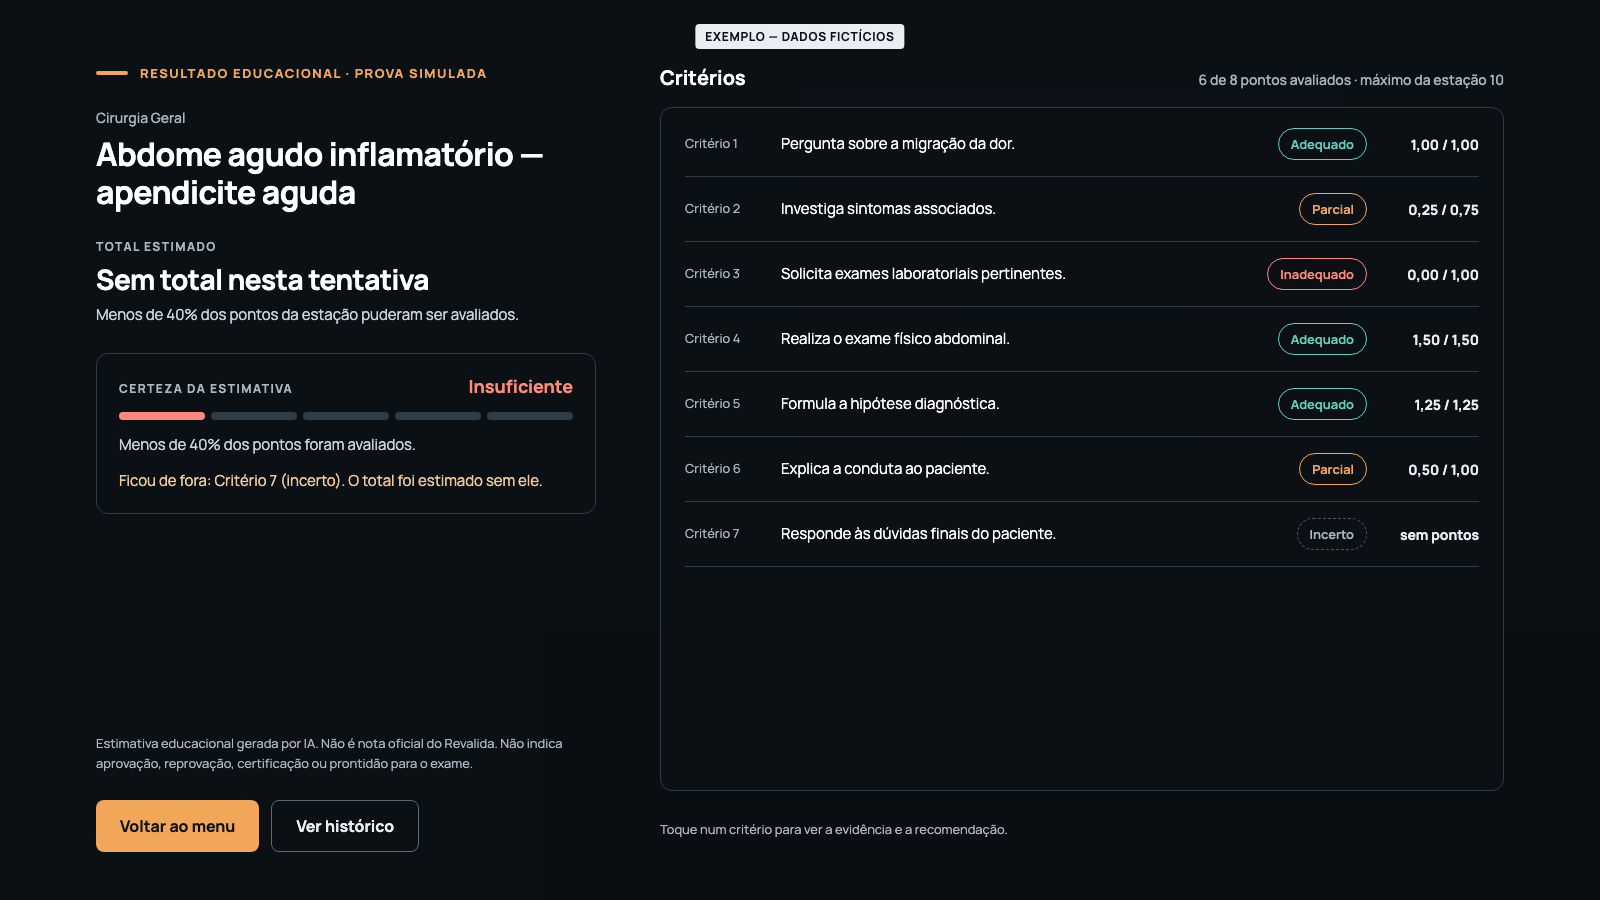
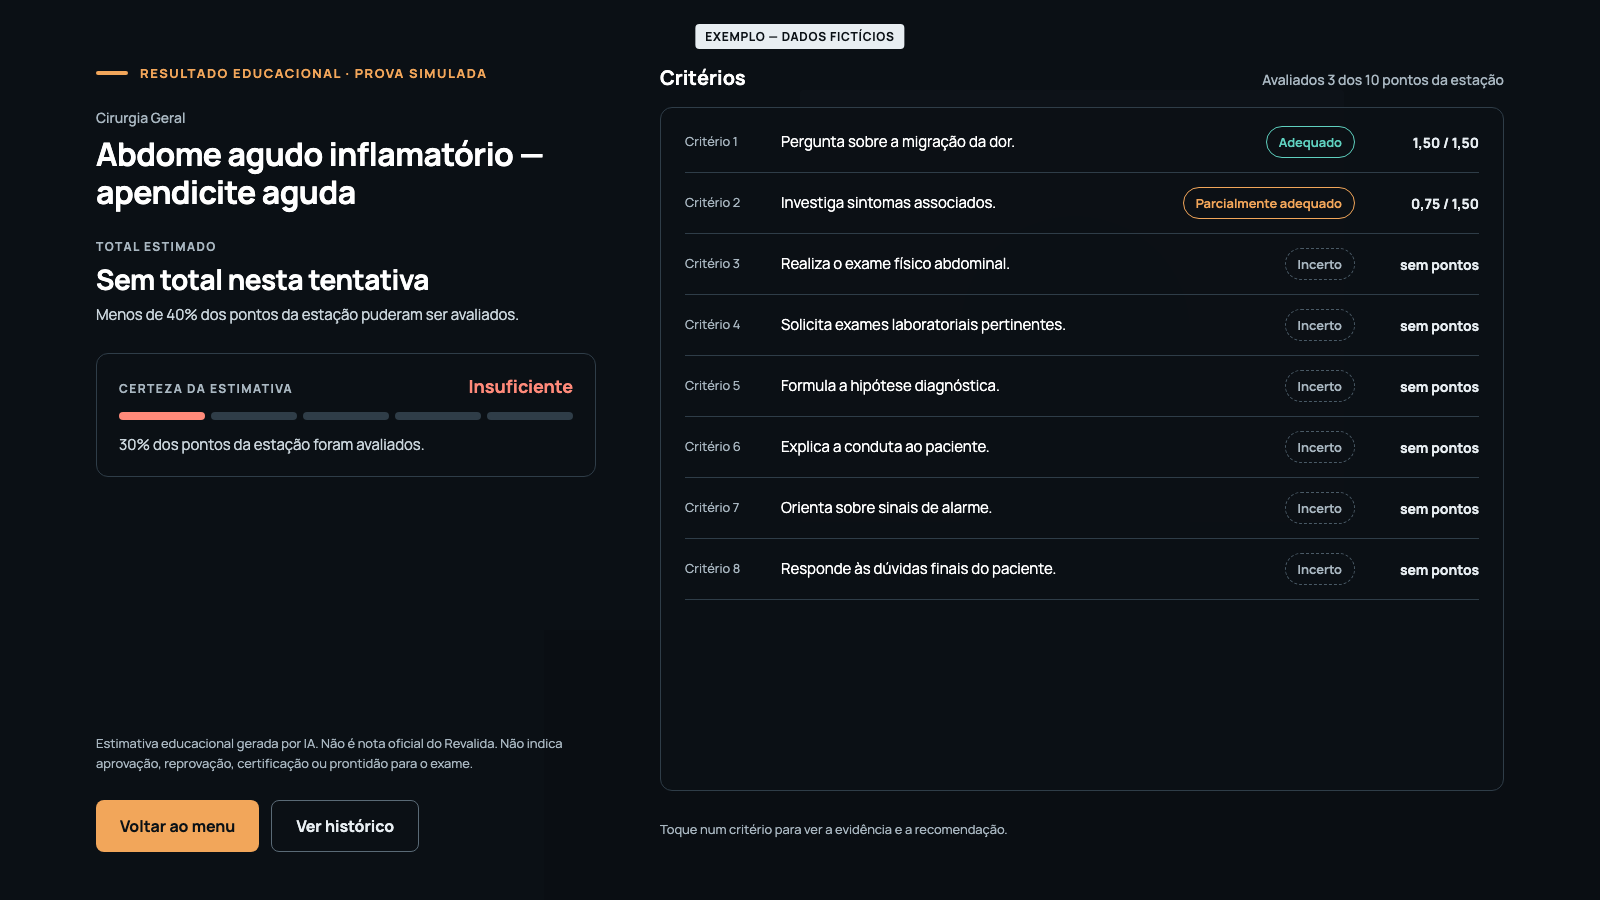
docs(design): fix Cine mockup review findings
- ResultExam derives total, coverage, header and left-out criteria from one model per certainty level; level 1 no longer claims an estimated total
- Main and Catalog walk the Prova simulada flow through to BriefExam
- README dates the history retention decision 2026-10-29

diff --git a/docs/design/screens/html/ResultExam.dc.html b/docs/design/screens/html/ResultExam.dc.html
@@ -28,7 +28,7 @@
 <sc-if value="{{ showTotal }}" hint-placeholder-val="{{ true }}">
 <div style="display: flex; flex-direction: column; gap: 4px">
 <span class="eyebrow" style="font-size: 12px">Total estimado</span>
-<span style="font-size: 88px; font-weight: 800; letter-spacing: -0.04em; line-height: 1; color: #ffffff">7,5<span style="font-size: 28px; font-weight: 600; color: #a9b7c1; letter-spacing: 0"> de 10</span></span>
+<span style="font-size: 88px; font-weight: 800; letter-spacing: -0.04em; line-height: 1; color: #ffffff">{{ total }}<span style="font-size: 28px; font-weight: 600; color: #a9b7c1; letter-spacing: 0"> de 10</span></span>
 </div>
 </sc-if>
 <sc-if value="{{ noTotal }}" hint-placeholder-val="{{ false }}">
@@ -46,7 +46,7 @@
 </div>
 <p class="small">{{ coverageText }}</p>
 <sc-if value="{{ hasWarning }}" hint-placeholder-val="{{ true }}">
-<p class="small" style="color: #f2c89a">Ficou de fora: Critério 7 (incerto). O total foi estimado sem ele.</p>
+<p class="small" style="color: #f2c89a">{{ warning }}</p>
 </sc-if>
 </div>
 
@@ -60,14 +60,14 @@
 </div>
 
 <div style="flex: 1; min-width: 0; display: flex; flex-direction: column; gap: 16px">
-<div style="display: flex; justify-content: space-between; align-items: baseline"><h2 class="h3" style="font-size: 20px">Critérios</h2><span class="muted">6 de 8 pontos avaliados · máximo da estação 10</span></div>
+<div style="display: flex; justify-content: space-between; align-items: baseline"><h2 class="h3" style="font-size: 20px">Critérios</h2><span class="muted">{{ header }}</span></div>
 <div class="panel" style="flex: 1; min-height: 0; overflow-y: auto; padding: 4px 24px">
 <sc-for list="{{ rows }}" as="r" hint-placeholder-count="8">
-<div style="display: flex; align-items: center; gap: 20px; padding: 16px 0; border-bottom: 1px solid #2f3d48">
+<div style="display: flex; align-items: center; gap: 20px; padding: 14px 0; border-bottom: 1px solid #2f3d48">
 <span class="fine" style="width: 76px; flex: none">Critério {{ r.n }}</span>
 <span class="small" style="flex: 1; color: #ffffff">{{ r.d }}</span>
 <span class="chip" style="{{ r.style }}">{{ r.status }}</span>
-<span style="width: 92px; text-align: right; font-size: 14px; font-weight: 700">{{ r.p }}</span>
+<span style="width: 104px; text-align: right; font-size: 14px; font-weight: 700">{{ r.p }}</span>
 </div>
 </sc-for>
 </div>
@@ -82,33 +82,57 @@ class Component extends DCLogic {
     const level = parseInt(this.props.level ?? '4', 10);
     const labels = { 5: 'Certeira', 4: 'Quase certeira', 3: 'Parcialmente certeira', 2: 'Pouco certeira', 1: 'Insuficiente' };
     const colors = { 5: '#5fd0bf', 4: '#5fd0bf', 3: '#f2a65a', 2: '#f2a65a', 1: '#ff8a7a' };
-    const coverage = { 5: 'Todos os critérios da estação foram avaliados.', 4: '80% dos pontos da estação foram avaliados.', 3: 'Entre 60% e 80% dos pontos foram avaliados.', 2: 'Entre 40% e 60% dos pontos foram avaliados.', 1: 'Menos de 40% dos pontos foram avaliados.' };
-    const segs = [1, 2, 3, 4, 5].map((i) => 'display:block; height:8px; border-radius:4px; background:' + (i <= level ? colors[level] : '#2f3d48'));
+    // How many criteria, counted from the end, could not be assessed at each level.
+    const uncertainCount = { 5: 0, 4: 1, 3: 2, 2: 4, 1: 6 };
+    const fmt = (x) => (Math.round(x * 100) / 100).toFixed(2).replace(/0$/, '').replace(/\.0?$/, '').replace('.', ',');
+    const pts = (x) => x.toFixed(2).replace('.', ',');
     const st = {
       ok: ['Adequado', 'border-color:#5fd0bf; color:#5fd0bf'],
-      part: ['Parcial', 'border-color:#f2a65a; color:#f2a65a'],
+      part: ['Parcialmente adequado', 'border-color:#f2a65a; color:#f2a65a'],
       bad: ['Inadequado', 'border-color:#ff8a7a; color:#ff8a7a'],
       unc: ['Incerto', 'border-style:dashed; color:#a9b7c1']
     };
-    const r = (n, d, k, p) => ({ n: n, d: d, status: st[k][0], style: st[k][1], p: p });
+    // Eligible maximum of the station: 10 points.
+    const criteria = [
+      { n: 1, d: 'Pergunta sobre a migração da dor.', max: 1.5, got: 1.5 },
+      { n: 2, d: 'Investiga sintomas associados.', max: 1.5, got: 0.75 },
+      { n: 3, d: 'Realiza o exame físico abdominal.', max: 1.25, got: 1.25 },
+      { n: 4, d: 'Solicita exames laboratoriais pertinentes.', max: 1.25, got: 0 },
+      { n: 5, d: 'Formula a hipótese diagnóstica.', max: 1.25, got: 1.25 },
+      { n: 6, d: 'Explica a conduta ao paciente.', max: 1.0, got: 0.5 },
+      { n: 7, d: 'Orienta sobre sinais de alarme.', max: 1.0, got: 1.0 },
+      { n: 8, d: 'Responde às dúvidas finais do paciente.', max: 1.25, got: 1.25 }
+    ];
+    const firstUncertain = criteria.length - uncertainCount[level];
+    let scoredMax = 0;
+    let subtotal = 0;
+    const left = [];
+    const rows = criteria.map((c, i) => {
+      if (i >= firstUncertain) {
+        left.push('Critério ' + c.n);
+        return { n: c.n, d: c.d, status: st.unc[0], style: st.unc[1], p: 'sem pontos' };
+      }
+      scoredMax += c.max;
+      subtotal += c.got;
+      const k = c.got === c.max ? 'ok' : (c.got === 0 ? 'bad' : 'part');
+      return { n: c.n, d: c.d, status: st[k][0], style: st[k][1], p: pts(c.got) + ' / ' + pts(c.max) };
+    });
+    const coveragePct = scoredMax * 10;
+    const segs = [1, 2, 3, 4, 5].map((i) => 'display:block; height:8px; border-radius:4px; background:' + (i <= level ? colors[level] : '#2f3d48'));
+    const leftList = left.join(', ');
     return {
       level: level,
       levelLabel: labels[level],
       levelColor: colors[level],
       showTotal: level > 1,
       noTotal: level === 1,
-      hasWarning: level < 5,
-      coverageText: coverage[level],
+      total: fmt(subtotal / scoredMax * 10),
       segments: segs,
-      rows: [
-        r(1, 'Pergunta sobre a migração da dor.', 'ok', '1,00 / 1,00'),
-        r(2, 'Investiga sintomas associados.', 'part', '0,25 / 0,75'),
-        r(3, 'Solicita exames laboratoriais pertinentes.', 'bad', '0,00 / 1,00'),
-        r(4, 'Realiza o exame físico abdominal.', 'ok', '1,50 / 1,50'),
-        r(5, 'Formula a hipótese diagnóstica.', 'ok', '1,25 / 1,25'),
-        r(6, 'Explica a conduta ao paciente.', 'part', '0,50 / 1,00'),
-        r(7, 'Responde às dúvidas finais do paciente.', 'unc', 'sem pontos')
-      ]
+      rows: rows,
+      header: 'Avaliados ' + fmt(scoredMax) + ' dos 10 pontos da estação',
+      coverageText: level === 5 ? 'Todos os critérios da estação foram avaliados.' : fmt(coveragePct) + '% dos pontos da estação foram avaliados.',
+      hasWarning: level > 1 && level < 5,
+      warning: 'Ficou de fora: ' + leftList + (left.length > 1 ? ' (incertos). O total foi estimado sem eles.' : ' (incerto). O total foi estimado sem ele.')
     };
   }
 }

diff --git a/docs/design/screens/html/Catalog.dc.html b/docs/design/screens/html/Catalog.dc.html
@@ -40,7 +40,7 @@
 </div>
 
 <div style="display: grid; grid-template-columns: repeat(3, minmax(0, 1fr)); gap: 20px">
-<a class="card" href="BriefTraining.dc.html" style="padding: 28px; gap: 18px; min-height: 196px; border-color: {{ accent }}; text-decoration: none">
+<a class="card" href="{{ briefHref }}" style="padding: 28px; gap: 18px; min-height: 196px; border-color: {{ accent }}; text-decoration: none">
 <span style="display: flex; justify-content: space-between; align-items: center">
 <span class="eyebrow" style="color: {{ accent }}">Sorteio</span>
 <svg aria-hidden="true" width="26" height="26" viewBox="0 0 24 24" fill="none" stroke="#e8eef2" stroke-width="1.8" stroke-linecap="round" stroke-linejoin="round"><path d="M16 3h5v5M4 20 21 3M21 16v5h-5M15 15l6 6M4 4l5 5"></path></svg>
@@ -49,7 +49,7 @@
 <span class="small">Um caso sorteado em {{ areaPhrase }}, como no dia da prova.</span>
 </a>
 <sc-for list="{{ cases }}" as="c" hint-placeholder-count="5">
-<a class="card" href="BriefTraining.dc.html" style="padding: 28px; gap: 14px; min-height: 196px; text-decoration: none">
+<a class="card" href="{{ briefHref }}" style="padding: 28px; gap: 14px; min-height: 196px; text-decoration: none">
 <span style="display: flex; justify-content: space-between; align-items: center">
 <span class="eyebrow">Caso {{ c.number }} · {{ c.area }}</span>
 <sc-if value="{{ c.done }}" hint-placeholder-val="{{ false }}"><span class="chip">Feita</span></sc-if>
@@ -83,6 +83,7 @@ class Component extends DCLogic {
     return {
       accent: accent,
       modeLabel: exam ? 'Prova simulada' : 'Treino',
+      briefHref: exam ? 'BriefExam.dc.html' : 'BriefTraining.dc.html',
       areaPhrase: area === 'Todas' ? 'qualquer área' : area,
       areas: names.map((n) => ({
         name: n,

diff --git a/docs/design/screens/html/Main.dc.html b/docs/design/screens/html/Main.dc.html
@@ -55,7 +55,7 @@ body{margin:0}
 <span style="margin-left: 8px; font-size: 13px; color: #a9b7c1">Não é nota oficial do Revalida.</span>
 </span>
 </button>
-<a class="enter arrow" href="Catalog.dc.html" aria-label="Entrar na prova simulada" tabindex="{{ examTab }}" style="{{ examArrow }}"><svg aria-hidden="true" width="26" height="26" viewBox="0 0 24 24" fill="none" stroke="#0b1116" stroke-width="2.4" stroke-linecap="round" stroke-linejoin="round"><path d="M5 12h14M13 6l6 6-6 6"></path></svg></a>
+<a class="enter arrow" href="Catalog.dc.html?mode=exam" aria-label="Entrar na prova simulada" tabindex="{{ examTab }}" style="{{ examArrow }}"><svg aria-hidden="true" width="26" height="26" viewBox="0 0 24 24" fill="none" stroke="#0b1116" stroke-width="2.4" stroke-linecap="round" stroke-linejoin="round"><path d="M5 12h14M13 6l6 6-6 6"></path></svg></a>
 </div>
 
 <div style="display: flex; gap: 32px; padding-left: 52px; color: #a9b7c1">

diff --git a/docs/design/screens/README.md b/docs/design/screens/README.md
@@ -62,7 +62,7 @@ All shared rules live in [`html/cine.css`](html/cine.css). The current code acce
 - **Placeholders are not content.** `[Tema do caso]`, `[valor]`, `[n] de [n]` and `[Cena …]` mark data that comes from the server or the 3D scene.
 - **Sample data is labelled.** Screens marked "EXEMPLO — DADOS FICTÍCIOS" show invented results only to fill the layout.
 - **Main menu interaction.** Both modes are always visible. The unselected one is dimmed (about 45% opacity). Selecting a mode by click, arrow keys or focus lights it up and fades in its round arrow button. Nothing moves or resizes.
-- **History keeps only cited phrases.** As decided on 2026-10-30, history shows the correction and the learner phrases cited in it, never the full conversation or audio (CONTEXT.md "MVP Data Retention").
+- **History keeps only cited phrases.** As decided on 2026-10-29, history shows the correction and the learner phrases cited in it, never the full conversation or audio (CONTEXT.md "MVP Data Retention").
 
 ## Out of scope
 
